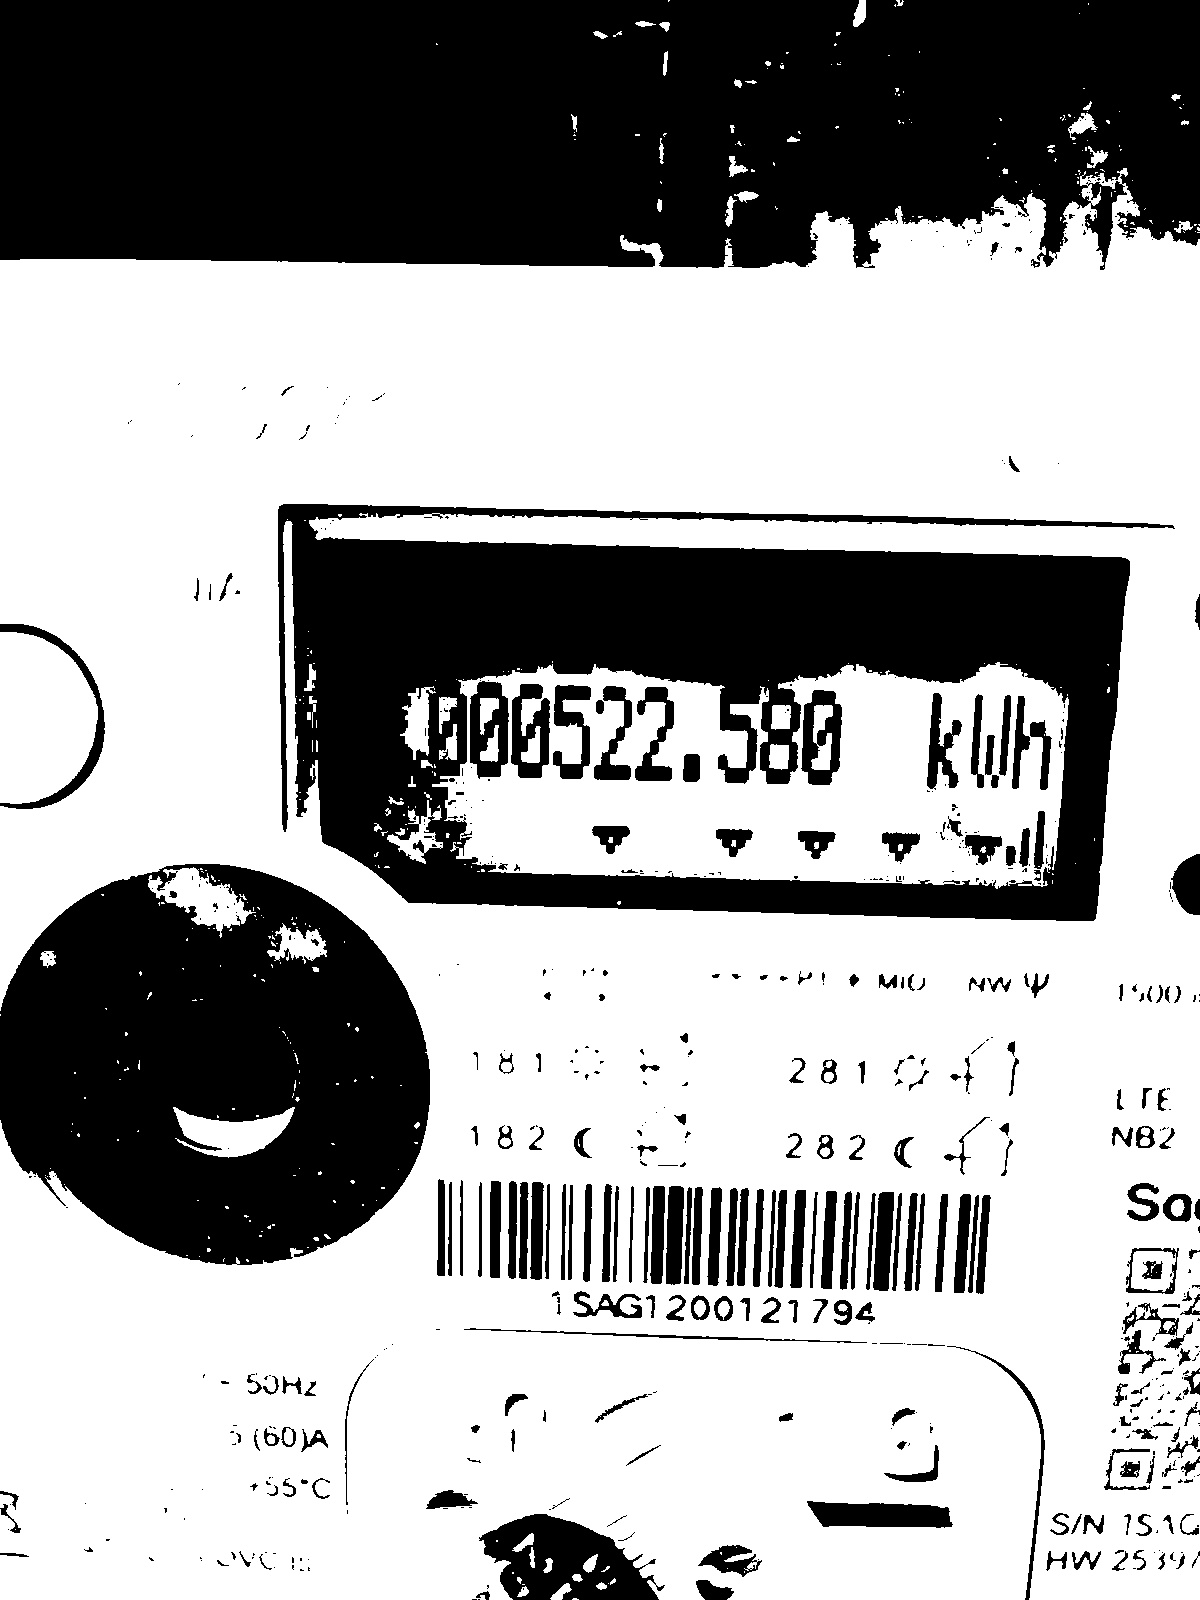
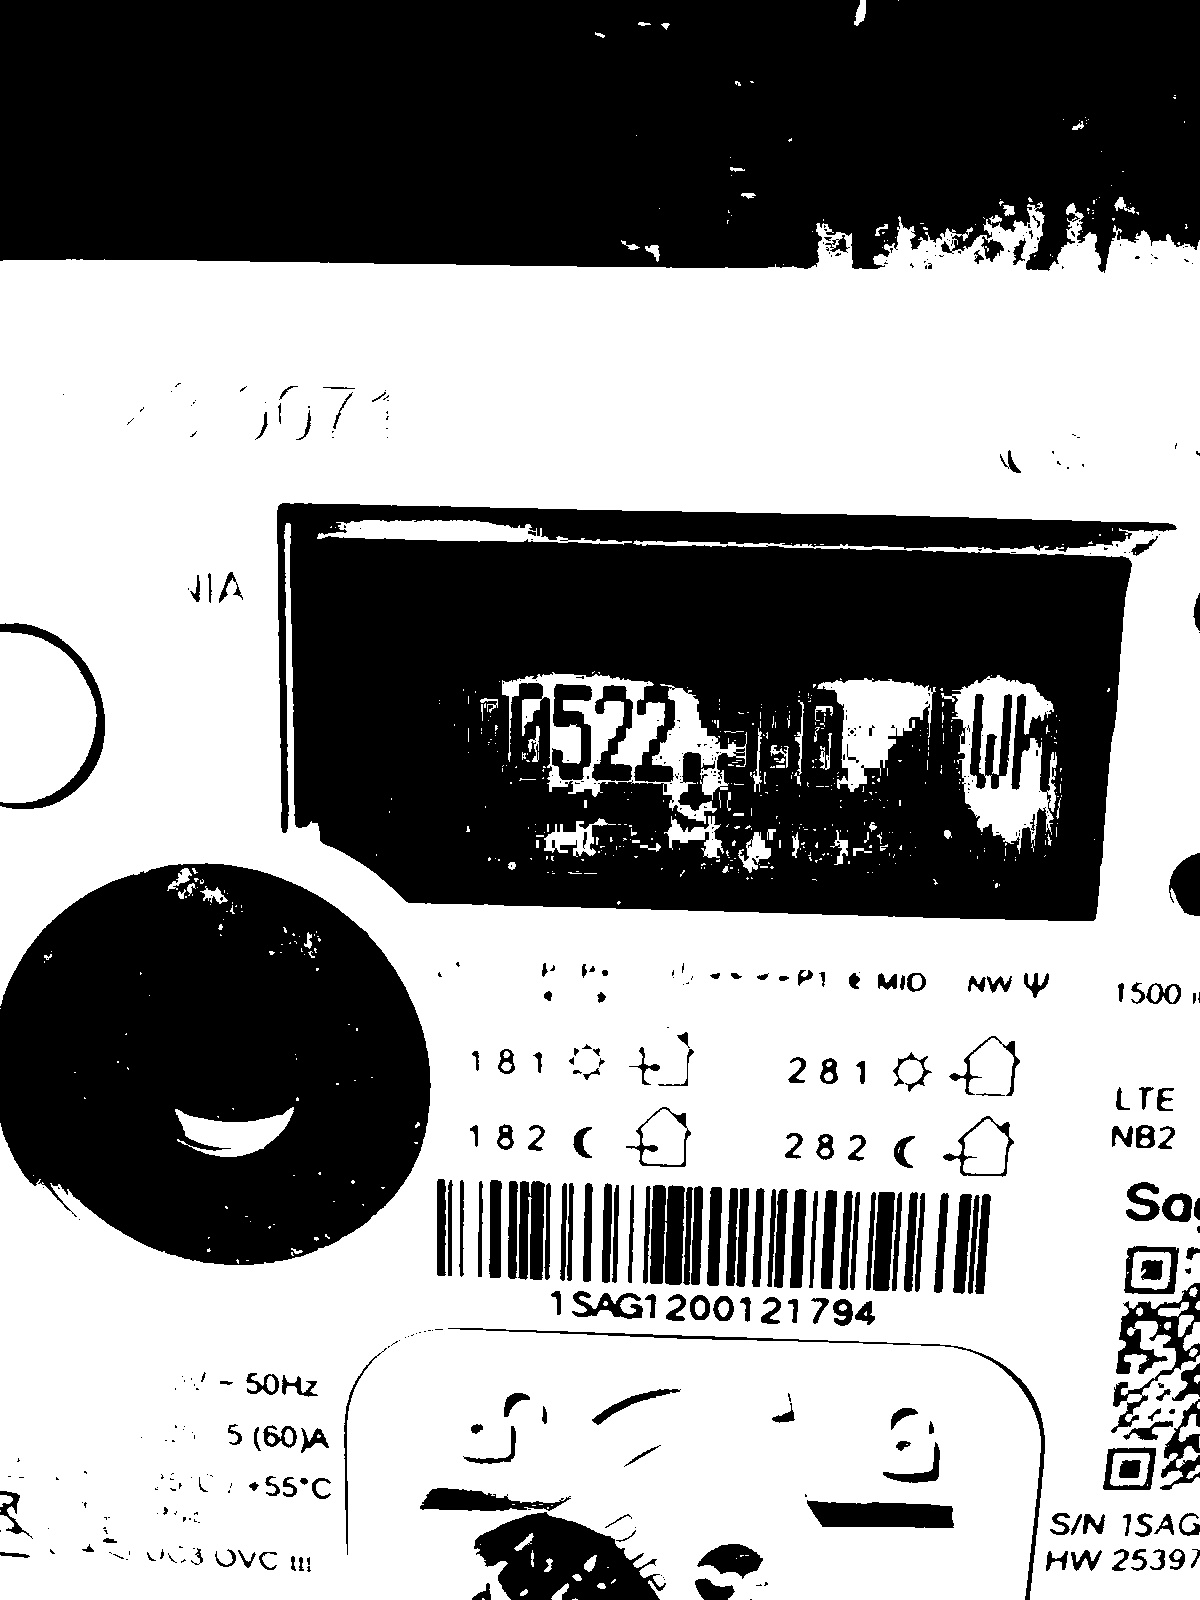
Add files via upload

diff --git a/Neybor test.py b/Neybor test.py
@@ -1,6 +1,9 @@
+#How to Preprocess Images for Text OCR in Python 
+
 import os
 import cv2 as cv
 from matplotlib import pyplot as plt
+import numpy as np
 
 # ouvrir une image
 image_file = "temp/compteur.jpg"
@@ -48,7 +51,7 @@ plt.axis('off')
 plt.show()
 
 # seuillage binaire
-_, im_bw = cv.threshold(gray_image, 90, 255, cv.THRESH_BINARY)
+_, im_bw = cv.threshold(gray_image, 100, 255, cv.THRESH_BINARY)
 cv.imwrite("temp/bw_image.jpg", im_bw)
 
 # afficher l'image en noir et blanc
@@ -56,4 +59,114 @@ plt.imshow(im_bw, cmap='gray')
 plt.title("Noir et Blanc")
 plt.axis('off')
 plt.show()
+
+# Noise removal
+def noise_removal(image):
+    kernel = np.ones((1, 1), np.uint8)
+    image = cv.dilate(image, kernel, iterations=1)
+    image = cv.erode(image, kernel, iterations=1)
+    image = cv.morphologyEx(image, cv.MORPH_CLOSE, kernel)
+    image = cv.medianBlur(image, 3)
+    return(image)
+
+no_noise = noise_removal(im_bw)
+cv.imwrite("temp/no_noise.jpg", no_noise)
+display_cv_image(no_noise, "No Noise")
+
+# Dilation and Erosion
+def thin_font(image):
+    image = cv.bitwise_not(image)
+    kernel = np.ones((2, 2), np.uint8)
+    image = cv.erode(image, kernel, iterations=1)
+    image = cv.bitwise_not(image)
+    return(image)
+
+eroded_image = thin_font(no_noise)
+cv.imwrite("temp/eroded_image.jpg", eroded_image)
+display_cv_image(eroded_image, "Eroded")
+
+#Thick font
+def thick_font(image):
+    image = cv.bitwise_not(image)
+    kernel = np.ones((2, 2), np.uint8)
+    image = cv.dilate(image, kernel, iterations=1)
+    image = cv.bitwise_not(image)
+    return(image)
+
+dilated_image = thick_font(no_noise)
+cv.imwrite("temp/dilated_image.jpg", dilated_image)
+display_cv_image(dilated_image, "dilated")
+
+#Rotation / Deskewing
+new = cv.imread("temp/dilated_image.jpg")
+
+def getSkewAngle(cvImage) -> float:
+    # Prep image, copy, convert to gray scale, blur, and threshold
+    newImage = cvImage.copy()
+    gray = cv.cvtColor(newImage, cv.COLOR_BGR2GRAY)
+    blur = cv.GaussianBlur(gray, (9, 9), 0)
+    thresh = cv.threshold(blur, 0, 255, cv.THRESH_BINARY_INV + cv.THRESH_OTSU)[1]
+
+    # Apply dilate to merge text into meaningful lines/paragraphs.
+    # Use larger kernel on X axis to merge characters into single line, cancelling out any spaces.
+    # But use smaller kernel on Y axis to separate between different blocks of text
+    kernel = cv.getStructuringElement(cv.MORPH_RECT, (30, 5))
+    dilate = cv.dilate(thresh, kernel, iterations=2)
+
+    # Find all contours
+    contours, hierarchy = cv.findContours(dilate, cv.RETR_LIST, cv.CHAIN_APPROX_SIMPLE)
+    contours = sorted(contours, key = cv.contourArea, reverse = True)
+    for c in contours:
+        rect = cv.boundingRect(c)
+        x,y,w,h = rect
+        cv.rectangle(newImage,(x,y),(x+w,y+h),(0,255,0),2)
+
+    # Find largest contour and surround in min area box
+    largestContour = contours[0]
+    print (len(contours))
+    minAreaRect = cv.minAreaRect(largestContour)
+    cv.imwrite("temp/boxes.jpg", newImage)
+    # Determine the angle. Convert it to the value that was originally used to obtain skewed image
+    angle = minAreaRect[-1]
+    if angle < -45:
+        angle = 90 + angle
+    return -1.0 * angle
+
+# Rotate the image around its center
+def rotateImage(cvImage, angle: float):
+    newImage = cvImage.copy()
+    (h, w) = newImage.shape[:2]
+    center = (w // 2, h // 2)
+    M = cv.getRotationMatrix2D(center, angle, 1.0)
+    newImage = cv.warpAffine(newImage, M, (w, h), flags=cv.INTER_CUBIC, borderMode=cv.BORDER_REPLICATE)
+    return newImage
+
+# Deskew image
+def deskew(cvImage):
+    angle = getSkewAngle(cvImage)
+    return rotateImage(cvImage, -1.0 * angle)
+
+fixed = deskew(new)
+cv.imwrite("temp/fixed.jpg", fixed)
+display_cv_image(fixed, "Deskewed")
+
+#Removing borders
+def remove_borders(image):
+    contours, hierarchy = cv.findContours(image, cv.RETR_EXTERNAL, cv.CHAIN_APPROX_SIMPLE)
+    cntsSorted = sorted(contours, key=lambda x:cv.contourArea(x))
+    cnt = cntsSorted[-1]
+    x, y, w, h = cv.boundingRect(cnt)
+    crop = image[y:y+h, x:x+w]
+    return(crop)
+
+no_borders = remove_borders(no_noise)
+cv.imwrite("temp/no_borders.jpg", no_borders)
+display_cv_image(no_borders, "No Borders")
+
+# Missing borders
+color = [255, 255, 255]
+top, bottom, left, right = [150]*4
+image_with_borders = cv.copyMakeBorder(no_borders, top, bottom, left, right, cv.BORDER_CONSTANT, value = color)
+cv.imwrite("temp/image_with_borders.jpg", image_with_borders)
+display_cv_image(image_with_borders, "Image with Borders")
 

diff --git a/Neybor copy 3.py b/Neybor copy 3.py
@@ -1,0 +1,102 @@
+import os
+import pandas as pd
+import numpy as np
+import matplotlib.pyplot as plt
+from glob import glob
+from tqdm import tqdm
+from PIL import Image
+import subprocess
+import sys
+
+# Optional: Automatically install keras-ocr and easyocr if not already installed
+def install_if_missing(package):
+    subprocess.check_call([sys.executable, "-m", "pip", "install", package])
+
+try:
+    import easyocr
+except ImportError:
+    install_if_missing('easyocr')
+    import easyocr
+
+try:
+    import keras_ocr
+except ImportError:
+    install_if_missing('keras-ocr')
+    import keras_ocr
+
+plt.style.use('ggplot')
+
+# Load annotations and image file paths
+annot = pd.read_parquet('../input/textocr-text-extraction-from-images-dataset/annot.parquet')
+imgs = pd.read_parquet('../input/textocr-text-extraction-from-images-dataset/img.parquet')
+img_fns = glob('../input/textocr-text-extraction-from-images-dataset/train_val_images/train_images/*')
+
+# Show the first image
+fig, ax = plt.subplots(figsize=(10, 10))
+ax.imshow(plt.imread(img_fns[0]))
+ax.axis('off')
+plt.show()
+
+# Show a grid of 25 images with annotation count
+fig, axs = plt.subplots(5, 5, figsize=(20, 20))
+axs = axs.flatten()
+for i in range(25):
+    axs[i].imshow(plt.imread(img_fns[i]))
+    axs[i].axis('off')
+    image_id = os.path.splitext(os.path.basename(img_fns[i]))[0]
+    n_annot = len(annot.query('image_id == @image_id'))
+    axs[i].set_title(f'{image_id} - {n_annot}')
+plt.show()
+
+# EasyOCR
+reader = easyocr.Reader(['en'], gpu=True)
+
+dfs = []
+for img in tqdm(img_fns[:25], desc="Running EasyOCR"):
+    result = reader.readtext(img)
+    img_id = os.path.splitext(os.path.basename(img))[0]
+    img_df = pd.DataFrame(result, columns=['bbox', 'text', 'conf'])
+    img_df['img_id'] = img_id
+    dfs.append(img_df)
+easyocr_df = pd.concat(dfs)
+
+# Keras OCR
+pipeline = keras_ocr.pipeline.Pipeline()
+
+dfs = []
+for img in tqdm(img_fns[:25], desc="Running Keras OCR"):
+    results = pipeline.recognize([img])
+    result = results[0]
+    img_id = os.path.splitext(os.path.basename(img))[0]
+    img_df = pd.DataFrame(result, columns=['text', 'bbox'])
+    img_df['img_id'] = img_id
+    dfs.append(img_df)
+kerasocr_df = pd.concat(dfs)
+
+# Comparison function
+def plot_compare(img_fn, easyocr_df, kerasocr_df):
+    img_id = os.path.splitext(os.path.basename(img_fn))[0]
+    fig, axs = plt.subplots(1, 2, figsize=(15, 10))
+
+    # EasyOCR results
+    easy_results = easyocr_df.query('img_id == @img_id')[['text', 'bbox']].values.tolist()
+    easy_results = [(x[0], np.array(x[1])) for x in easy_results]
+    keras_ocr.tools.drawAnnotations(plt.imread(img_fn), easy_results, ax=axs[0])
+    axs[0].set_title('easyocr results', fontsize=20)
+
+    # Keras OCR results
+    keras_results = kerasocr_df.query('img_id == @img_id')[['text', 'bbox']].values.tolist()
+    keras_results = [(x[0], np.array(x[1])) for x in keras_results]
+    keras_ocr.tools.drawAnnotations(plt.imread(img_fn), keras_results, ax=axs[1])
+    axs[1].set_title('keras_ocr results', fontsize=20)
+    plt.show()
+
+# Run comparison on 25 images
+for img_fn in img_fns[:25]:
+    plot_compare(img_fn, easyocr_df, kerasocr_df)
+
+# Save OCR results to Excel files
+easyocr_df.to_excel('easyocr_results.xlsx', index=False)
+kerasocr_df.to_excel('kerasocr_results.xlsx', index=False)
+
+print("✅ OCR results saved to 'easyocr_results.xlsx' and 'kerasocr_results.xlsx'")
